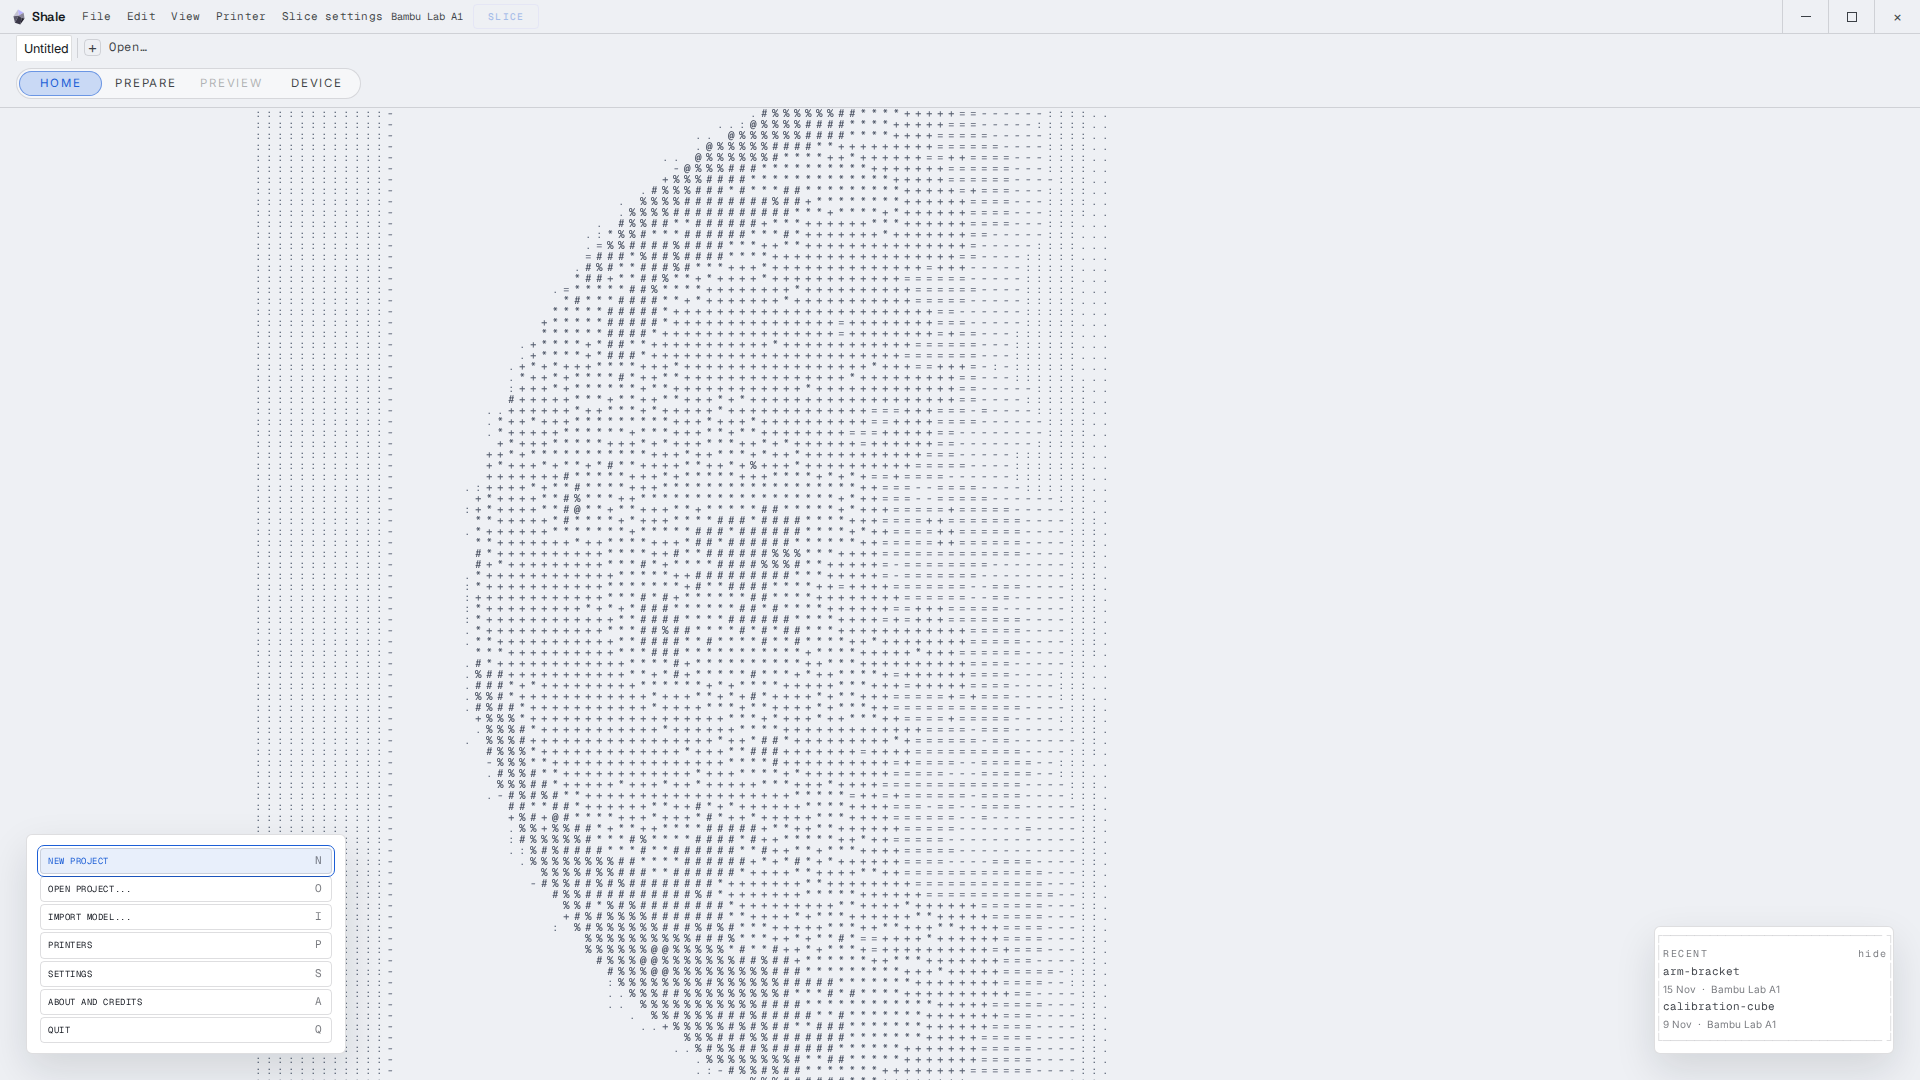
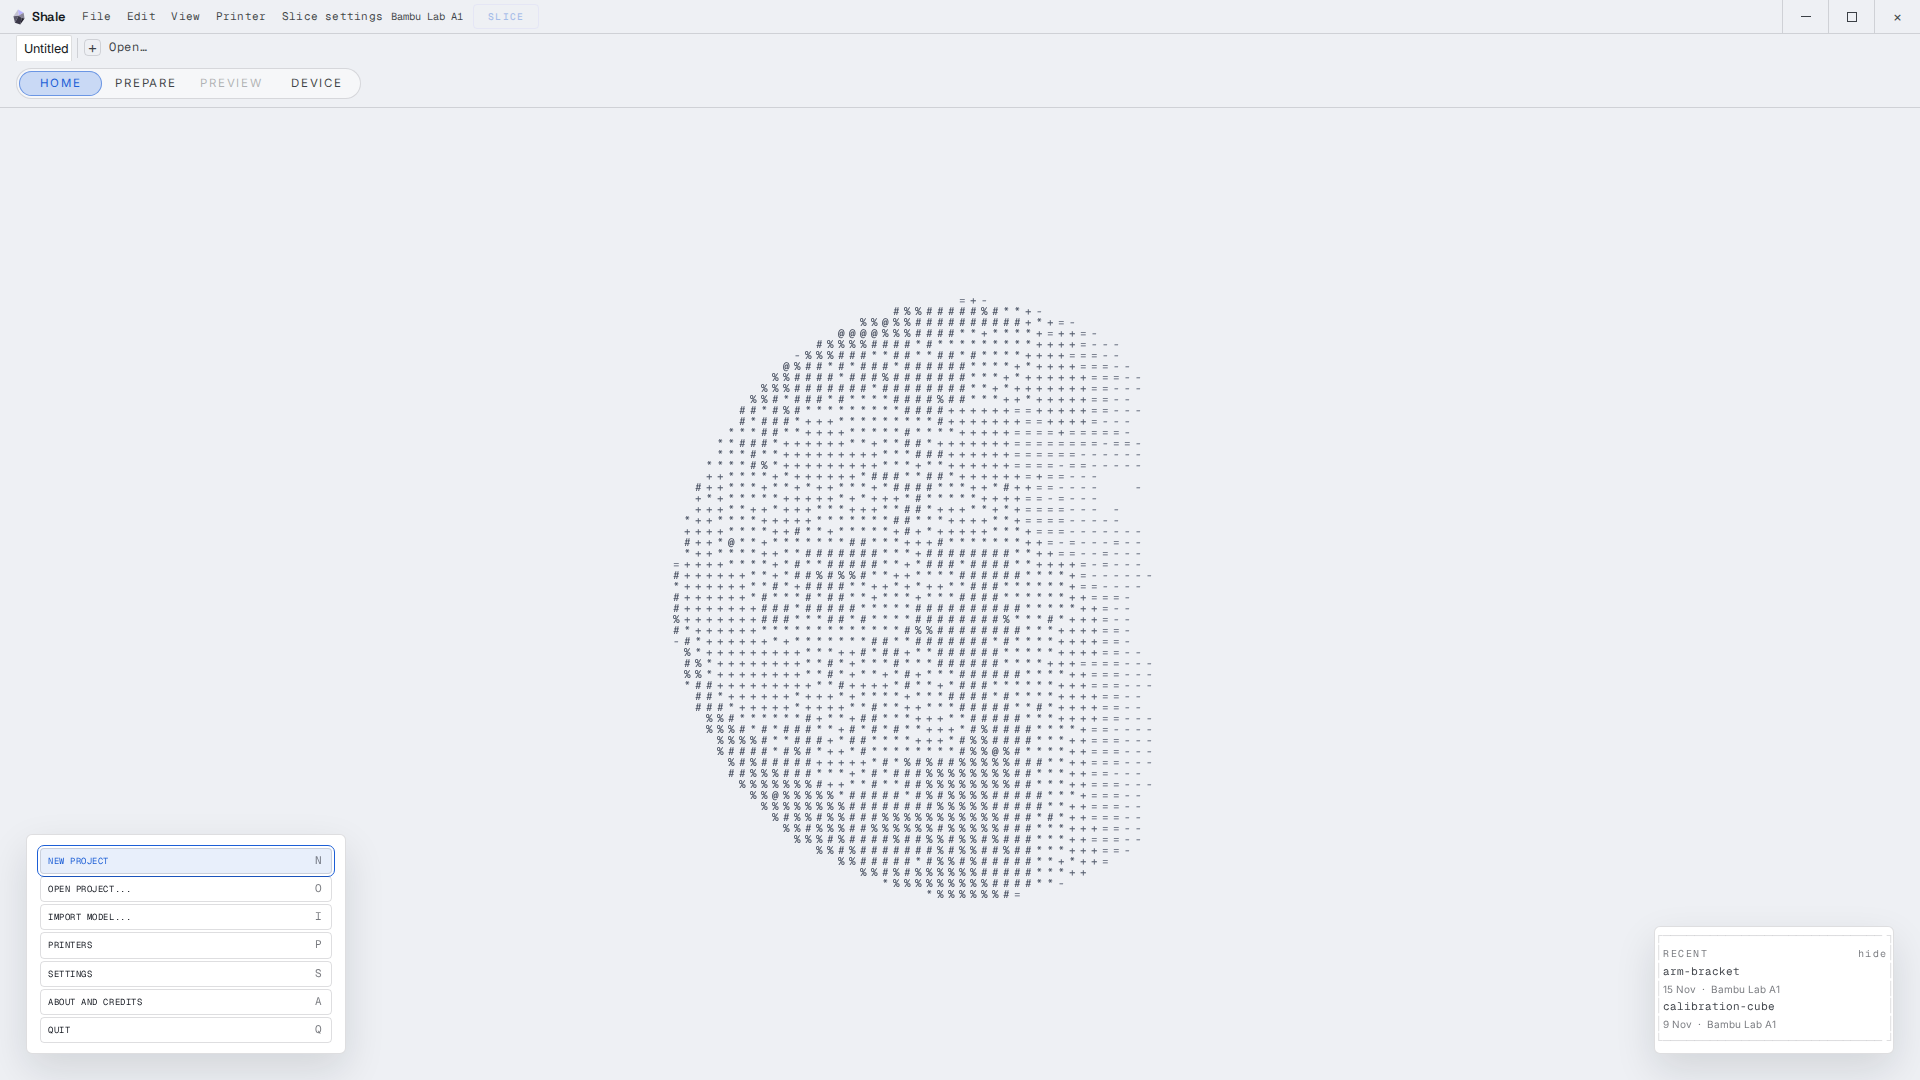
fix(desktop): rebuild lunar plate on pure black with contain fit
Add build-lunar-plate.py (disc mask, soft terminator, column purge),
paint tuning (contain, emptyPixelMax, sampleInset), and plateStill for
stable capture screenshots.

Changed region(s): [[0.25, 0.0917, 0.5938, 1.0]]

diff --git a/apps/desktop/src/field/paint.ts b/apps/desktop/src/field/paint.ts
@@ -81,7 +81,11 @@ export function createField(
     baseB = new Uint8Array(count);
     offsetX = new Float32Array(count);
     offsetY = new Float32Array(count);
-    const fit = Math.max(width / iw, height / ih) * (tune.fitScaleMul ?? 1.03);
+    const scaleBase =
+      tune.fitMode === "contain"
+        ? Math.min(width / iw, height / ih)
+        : Math.max(width / iw, height / ih);
+    const fit = scaleBase * (tune.fitScaleMul ?? (tune.fitMode === "contain" ? 0.94 : 1.03));
     fitted = {
       drawW: iw * fit,
       drawH: ih * fit,
@@ -128,12 +132,22 @@ export function createField(
         }
         const localX = rawX;
         const localY = rawY;
-        const sx = Math.min(iw - 1, Math.floor((localX / drawW) * iw));
-        const sy = Math.min(ih - 1, Math.floor((localY / drawH) * ih));
+        const inset = tune.sampleInset ?? 0;
+        let sx = Math.min(iw - 1, Math.floor((localX / drawW) * iw));
+        let sy = Math.min(ih - 1, Math.floor((localY / drawH) * ih));
+        if (sx <= inset || sx >= iw - 1 - inset || sy <= inset || sy >= ih - 1 - inset) {
+          baseGlyph[index] = 0;
+          continue;
+        }
         const pixel = (sy * iw + sx) * 4;
         const red = pixels[pixel];
         const green = pixels[pixel + 1];
         const blue = pixels[pixel + 2];
+        const emptyMax = tune.emptyPixelMax;
+        if (emptyMax != null && Math.max(red, green, blue) <= emptyMax) {
+          baseGlyph[index] = 0;
+          continue;
+        }
         if (tune.matchBackgroundEmpty) {
           const dr = Math.abs(red - backgroundRgb[0]);
           const dg = Math.abs(green - backgroundRgb[1]);

diff --git a/apps/desktop/src/StartScreen.tsx b/apps/desktop/src/StartScreen.tsx
@@ -79,6 +79,9 @@ export function StartScreen({
   const buttons = useRef<Array<HTMLButtonElement | null>>([]);
   const recentsRef = useRef<RecentProjectsPanelHandle>(null);
   const plate = uiStyleById(uiStyle);
+  const plateStill =
+    typeof window !== "undefined" && new URLSearchParams(window.location.search).get("plateStill") === "1";
+  const fieldLive = live && !plateStill;
 
   const items = menuItems({
     panel,
@@ -159,8 +162,8 @@ export function StartScreen({
   return (
     <div className="start">
       <PlateField
-        live={live}
-        comet={live}
+        live={fieldLive}
+        comet={fieldLive}
         imageUrl={plate.plateImage}
         backgroundRgb={plate.plateBackground}
         plateTune={plate.plateTune}

diff --git a/apps/desktop/src/field/plate-tune.ts b/apps/desktop/src/field/plate-tune.ts
@@ -8,6 +8,12 @@ export interface PlateTune {
   lumaFloor?: number;
   /** Multiplier on cover-fit scale (default 1.03). */
   fitScaleMul?: number;
+  /** `contain` keeps the whole plate visible; default is cover. */
+  fitMode?: "cover" | "contain";
+  /** Pixels at or below this max channel value paint empty (e.g. lunar sky). */
+  emptyPixelMax?: number;
+  /** Ignore this many pixels at each edge of the plate bitmap when sampling. */
+  sampleInset?: number;
   /** Shift the fitted image horizontally, as a fraction of canvas width. */
   fitBiasX?: number;
   fitBiasY?: number;

diff --git a/apps/desktop/src/ui-styles.ts b/apps/desktop/src/ui-styles.ts
@@ -113,9 +113,12 @@ export const UI_STYLES: readonly UiStyleDefinition[] = [
     plateTune: {
       lumaPower: 0.55,
       lumaGain: 1.12,
-      lumaFloor: 0.05,
-      fitScaleMul: 0.84,
-      fitBiasX: 0.03,
+      lumaFloor: 0.09,
+      emptyPixelMax: 20,
+      sampleInset: 2,
+      fitMode: "contain",
+      fitScaleMul: 0.88,
+      fitBiasX: -0.02,
       glyphFrom: "graphite",
       glyphTintLo: [108, 118, 136],
       glyphTintHi: [42, 50, 68],

diff --git a/scripts/build-lunar-plate.py b/scripts/build-lunar-plate.py
@@ -1,0 +1,79 @@
+#!/usr/bin/env python3
+"""Build lunar.jpg: half-moon on pure #000 outside the disc. Verifies borders."""
+from __future__ import annotations
+
+import math
+import sys
+from pathlib import Path
+
+from PIL import Image
+
+OUT_W, OUT_H = 640, 480
+MOON_MAX = 380
+LUMA_BLACK = 14
+
+
+def smoothstep(edge0: float, edge1: float, x: float) -> float:
+    if edge0 == edge1:
+        return 0.0 if x < edge0 else 1.0
+    t = max(0.0, min(1.0, (x - edge0) / (edge1 - edge0)))
+    return t * t * (3.0 - 2.0 * t)
+
+
+def build(src: Path, dest: Path) -> None:
+    moon = Image.open(src).convert("L")
+    moon.thumbnail((MOON_MAX, MOON_MAX), Image.Resampling.LANCZOS)
+    canvas = Image.new("RGB", (OUT_W, OUT_H), (0, 0, 0))
+    ox = (OUT_W - moon.width) // 2 + 28
+    oy = (OUT_H - moon.height) // 2
+    pixels = moon.load()
+    out = canvas.load()
+    moon_pixels = 0
+    mw, mh = moon.width, moon.height
+    cx, cy = mw / 2, mh / 2
+    for y in range(mh):
+        for x in range(mw):
+            nx = (x - cx) / max(cx, 1)
+            ny = (y - cy) / max(cy, 1)
+            if nx * nx + ny * ny > 1.02:
+                continue
+            lx = x / max(1, mw - 1)
+            shade = 1.0 - smoothstep(0.42, 0.88, lx)
+            lum = int(pixels[x, y] * shade)
+            if lum < LUMA_BLACK:
+                continue
+            out[ox + x, oy + y] = (lum, lum, lum)
+            moon_pixels += 1
+
+    # Force any stray non-black border columns inside the canvas to zero.
+    for x in range(OUT_W):
+        column = [out[x, y] for y in range(OUT_H)]
+        peak = max(channel for cell in column for channel in cell)
+        if 0 < peak <= LUMA_BLACK + 4:
+            for y in range(OUT_H):
+                out[x, y] = (0, 0, 0)
+
+    for y in range(OUT_H):
+        for x in range(OUT_W):
+            if out[x, y] != (0, 0, 0):
+                continue
+    for x in range(OUT_W):
+        if out[x, 0] != (0, 0, 0) or out[x, OUT_H - 1] != (0, 0, 0):
+            raise SystemExit(f"border not black at top/bottom x={x}")
+    for y in range(OUT_H):
+        if out[0, y] != (0, 0, 0) or out[OUT_W - 1, y] != (0, 0, 0):
+            raise SystemExit(f"border not black at sides y={y}")
+
+    canvas.save(dest, quality=92, optimize=True)
+    print(f"{dest}: moon pixels={moon_pixels}, size={OUT_W}x{OUT_H}")
+
+
+def main() -> None:
+    root = Path(__file__).resolve().parent.parent
+    src = Path(sys.argv[1]) if len(sys.argv) > 1 else Path("/tmp/shale-plates/moon.jpg")
+    dest = root / "apps/desktop/src/field/lunar.jpg"
+    build(src, dest)
+
+
+if __name__ == "__main__":
+    main()
